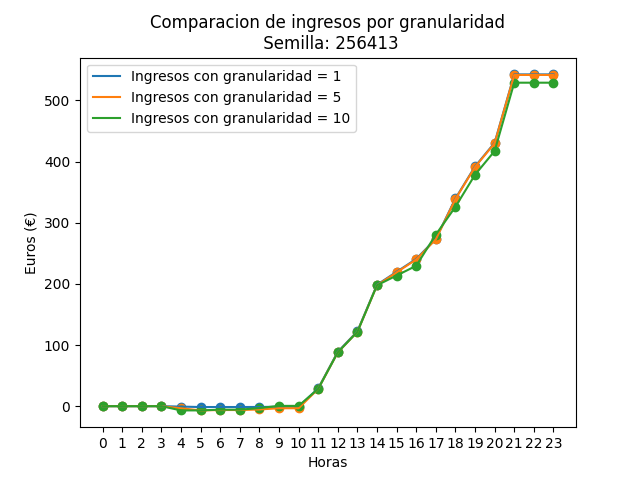
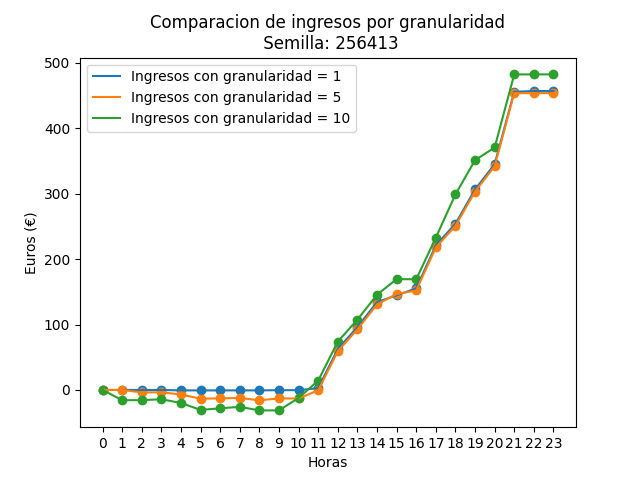
auto-commit:08/03/2023 a las 10:08:49,27

diff --git a/2º Cuatrimestre/[MByHB] Modelos Bioinspirados y Heurísticas de Búsquedas/Prácticas/Práctica 1. Búsquedas Locales/_6_Búsqueda_Enfriamiento_Simulado/busqueda_ES.py b/2º Cuatrimestre/[MByHB] Modelos Bioinspirados y Heurísticas de Búsquedas/Prácticas/Práctica 1. Búsquedas Locales/_6_Búsqueda_Enfriamiento_Simulado/busqueda_ES.py
@@ -9,7 +9,7 @@ import matplotlib.pyplot as plt
 import pandas as pd
 import numpy as np
 
-isRandom = False
+isRandom = True
 numero_repeticiones = 5
 
 # Constantes
@@ -69,6 +69,9 @@ def enfriamiento_simulado(semilla, granularidad, num_vecinos_, mu_, phi_):
     bateria_acumulada = []
     num_evaluaciones = 0
 
+    empeora = 0
+    total = 0
+
     while k < 8:  # El algoritmo finaliza cuando se alcance un num maximo de iteraciones
         for i in range(num_vecinos_):  # Condicion de Enfriamiento: Cuando se hayan generado un num de vecinos.
 
@@ -80,16 +83,20 @@ def enfriamiento_simulado(semilla, granularidad, num_vecinos_, mu_, phi_):
             # Como estamos maximizando, el delta se calcula al revés que en el ppt de teoría.
             delta = - max_dinero + base.funcion_evaluacion(solucion_actual, isRandom)[0]
             # if delta > 0: print(np.exp(-delta / t))
-            if random.uniform(0, 1) < np.exp(-delta / t) or delta < 0:
+
+            if delta < 0 or random.uniform(0, 1) < np.exp(-delta / t):  # Si es mejor la coge
                 solucion_actual = solucion_candidata
                 dinero_acumulado = dinero_hora
                 bateria_acumulada = bateria_hora
+                empeora += 1
+
+            total += 1
 
         t = t / (1 + k)  # Esquema de Enfriamiento: Esquema de Cauchy
         k += 1
         # print(t)
         temperatura.append(t)
-    return max_dinero, dinero_acumulado, bateria_acumulada, num_evaluaciones, temperatura, solucion_actual
+    return max_dinero, dinero_acumulado, bateria_acumulada, num_evaluaciones, temperatura, solucion_actual, 1 - empeora/total
 
 
 def experimentacion_parametros():
@@ -103,7 +110,7 @@ def experimentacion_parametros():
             for nv in range(len(num_vecinos)):
                 for m in range(len(mu)):
                     for p in range(len(phi)):
-                        dinero_mejor, dinero_acumulado, bateria_hora, num_evaluaciones_mejor, temperatura, solucion = \
+                        dinero_mejor, dinero_acumulado, bateria_hora, num_evaluaciones_mejor, temperatura, solucion, cociente = \
                             enfriamiento_simulado(
                                 semillas[i],
                                 granularidades[g],
@@ -113,17 +120,18 @@ def experimentacion_parametros():
                         data = {
                             'mu': [mu[m]],
                             'phi': [phi[p]],
-                            'dinero': [dinero_mejor],
+                            'n_vecinos': [num_vecinos[nv]],
+                            'empeoramiento / total': [cociente],
                             'T0': [temperatura_inicial(mu[m], phi[p], greedy.greedy(isRandom)[3])]
                         }
 
-                        if dinero_mejor > max_dinero:
+                        if 0.2 < cociente < 0.21:
                             max_dinero = dinero_mejor
                             max_mu = mu[m]
                             max_phi = phi[p]
 
-                        print(data)
-    print(f"mu = {max_mu} \nphi = {max_phi} \ndinero = {max_dinero}")
+                            print(data)
+    # print(f"mu = {max_mu} \nphi = {max_phi} \ndinero = {max_dinero}")
 
 
 def graficas_enfriamiento_simulado(nv, m, p):
@@ -132,7 +140,7 @@ def graficas_enfriamiento_simulado(nv, m, p):
     for i in range(numero_repeticiones):
         ingresos_granularidad = np.tile(np.array([0 for _ in range(24)], dtype=np.float64), (3, 1))
         for g in range(len(granularidades)):
-            dinero_mejor, dinero_acumulado, bateria_hora, num_evaluaciones_mejor, temperatura, solucion = \
+            dinero_mejor, dinero_acumulado, bateria_hora, num_evaluaciones_mejor, temperatura, solucion, _ = \
                 enfriamiento_simulado(
                     semillas[i],
                     granularidades[g],
@@ -236,13 +244,13 @@ def graficas_enfriamiento_simulado(nv, m, p):
 
 if __name__ == "__main__":
     if isRandom:
-        #experimentacion_parametros()
-        graficas_enfriamiento_simulado(30, 0.1, 0.1)
+        experimentacion_parametros()
+        graficas_enfriamiento_simulado(10, 0.1, 0.1)
     else:
-        #experimentacion_parametros()
-        graficas_enfriamiento_simulado(30, 0.1, 0.1)
+        experimentacion_parametros()
+        graficas_enfriamiento_simulado(20, 0.3, 0.2)
 
 
 
-    # 0.1 // 0.1 -> datos aleatorios
-    # 0.1 // 0.1 -> datos reales
+    # 0.3 // 0. -> datos aleatorios
+    # 0.3 // 0.2 -> datos reales
